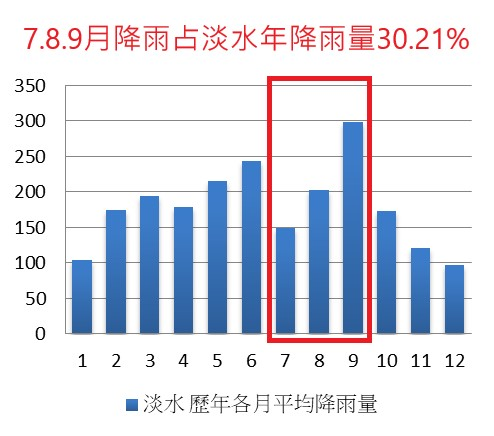
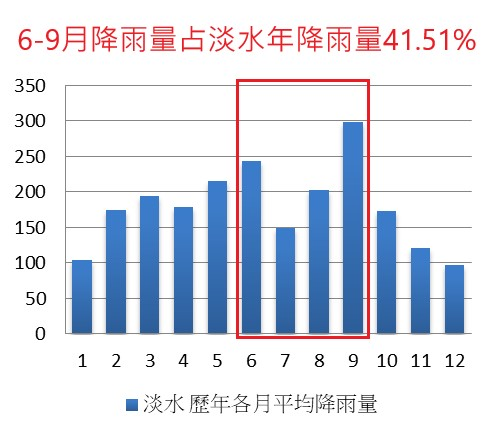
Add files via upload

Changed region(s): [[0.4555, 0.1491, 0.7591, 0.805], [0.0304, 0.0596, 0.9717, 0.1193]]

diff --git a/map_chart/index.html b/map_chart/index.html
@@ -49,7 +49,7 @@
 			<li class="p">地圖標記為該地氣象觀測站</li>
 			<li class="p">點選後即可觀看該地區民國70-99年平均後之12個月的降雨分布圖</li>
 			<li class="p">取自中央氣象局民國70-99年各月降雨量觀測資料</li>
-			<li class="p">將滑鼠游標移至該圖上即可觀看該區7-9月降雨量占該區年降雨量之百分比</li>
+			<li class="p">將滑鼠游標移至該圖上即可觀看該區6-9月降雨量占該區年降雨量之百分比</li>
 	</div>
 
 	<!--使用說明按鈕-->
